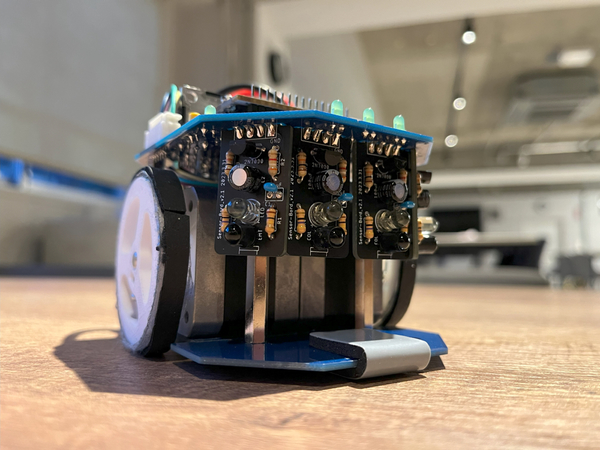
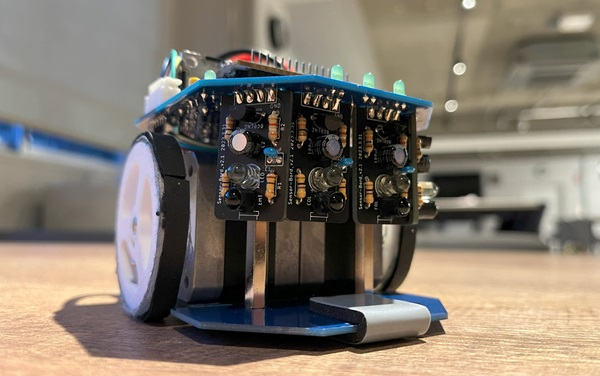
resize rat pics

diff --git a/index.html b/index.html
@@ -107,7 +107,7 @@
 
                   <div class=flex-body-box>
                      <p>IR Demo</p>
-                     <img class=responsive-image src="wmmc/scuffed_ir_demo_square.gif" alt="scuffed_ir_demo gif">
+                     <img class=responsive-image src="wmmc/scuff_ir_demo.gif" alt="scuffed_ir_demo gif">
                   </div>
                </div>
             </div>
